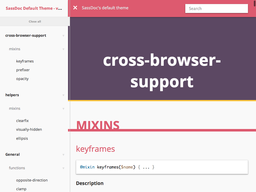
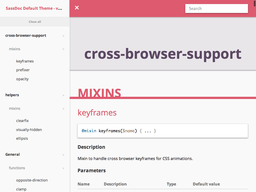
Update STD preview

diff --git a/theme-gallery/preview/default/index.html b/theme-gallery/preview/default/index.html
@@ -1,4 +1,5 @@
-<!doctype html><html lang="en"><head><meta charset="utf-8"><title>SassDoc Default Theme - v2.0.5</title><link rel="stylesheet" href="assets/css/main.css"><link href="http://fonts.googleapis.com/css?family=Open+Sans:400,500,700" rel="stylesheet" type="text/css"><meta name="viewport" content="width=device-width"><meta content="IE=edge, chrome=1" http-equiv="X-UA-Compatible"><!-- Thanks to Sass-lang.com for the icons --><link href="http://sass-lang.com/favicon.ico" rel="shortcut icon"></head><body><aside class="sidebar" role="nav"><div class="sidebar__header"><h1 class="sidebar__title"><a href="https://github.com/SassDoc/sassdoc-theme-default">SassDoc Default Theme - v2.0.5</a></h1></div><div class="sidebar__body"><button type="button" class="btn-toggle js-btn-toggle" data-alt="Open all">Close all</button><p class="sidebar__item sidebar__item--heading" data-slug="cross-browser-support"><a href="#cross-browser-support">cross-browser-support</a></p><div><p class="sidebar__item sidebar__item--sub-heading" data-slug="cross-browser-support-mixin"><a href="#cross-browser-support-mixin">mixins</a></p><ul class="list-unstyled"><li class="sidebar__item sassdoc__item" data-name="keyframes" data-type="mixin"><a href="#mixin-keyframes">keyframes</a></li><li class="sidebar__item sassdoc__item" data-name="prefixer" data-type="mixin"><a href="#mixin-prefixer">prefixer</a></li><li class="sidebar__item sassdoc__item" data-name="opacity" data-type="mixin"><a href="#mixin-opacity">opacity</a></li></ul></div><p class="sidebar__item sidebar__item--heading" data-slug="helpers"><a href="#helpers">helpers</a></p><div><p class="sidebar__item sidebar__item--sub-heading" data-slug="helpers-mixin"><a href="#helpers-mixin">mixins</a></p><ul class="list-unstyled"><li class="sidebar__item sassdoc__item" data-name="clearfix" data-type="mixin"><a href="#mixin-clearfix">clearfix</a></li><li class="sidebar__item sassdoc__item" data-name="visually-hidden" data-type="mixin"><a href="#mixin-visually-hidden">visually-hidden</a></li><li class="sidebar__item sassdoc__item" data-name="ellipsis" data-type="mixin"><a href="#mixin-ellipsis">ellipsis</a></li></ul></div><p class="sidebar__item sidebar__item--heading" data-slug="undefined"><a href="#undefined">General</a></p><div><p class="sidebar__item sidebar__item--sub-heading" data-slug="undefined-function"><a href="#undefined-function">functions</a></p><ul class="list-unstyled"><li class="sidebar__item sassdoc__item" data-name="opposite-direction" data-type="function"><a href="#function-opposite-direction">opposite-direction</a></li><li class="sidebar__item sassdoc__item" data-name="clamp" data-type="function"><a href="#function-clamp">clamp</a></li><li class="sidebar__item sassdoc__item" data-name="z" data-type="function"><a href="#function-z">z</a></li><li class="sidebar__item sassdoc__item" data-name="is-valid-length" data-type="function"><a href="#function-is-valid-length">is-valid-length</a></li><li class="sidebar__item sassdoc__item" data-name="top-shadow" data-type="function"><a href="#function-top-shadow">top-shadow</a></li><li class="sidebar__item sassdoc__item" data-name="bottom-shadow" data-type="function"><a href="#function-bottom-shadow">bottom-shadow</a></li></ul><p class="sidebar__item sidebar__item--sub-heading" data-slug="undefined-placeholder"><a href="#undefined-placeholder">placeholders</a></p><ul class="list-unstyled"><li class="sidebar__item sassdoc__item" data-name="clearfix" data-type="placeholder"><a href="#placeholder-clearfix">clearfix</a></li><li class="sidebar__item sassdoc__item" data-name="visually-hidden" data-type="placeholder"><a href="#placeholder-visually-hidden">visually-hidden</a></li><li class="sidebar__item sassdoc__item" data-name="ellipsis" data-type="placeholder"><a href="#placeholder-ellipsis">ellipsis</a></li></ul><p class="sidebar__item sidebar__item--sub-heading" data-slug="undefined-mixin"><a href="#undefined-mixin">mixins</a></p><ul class="list-unstyled"><li class="sidebar__item sassdoc__item" data-name="size" data-type="mixin"><a href="#mixin-size">size</a></li><li class="sidebar__item sassdoc__item" data-name="position" data-type="mixin"><a href="#mixin-position">position</a></li><li class="sidebar__item sassdoc__item" data-name="absolute" data-type="mixin"><a href="#mixin-absolute">absolute</a></li><li class="sidebar__item sassdoc__item" data-name="relative" data-type="mixin"><a href="#mixin-relative">relative</a></li><li class="sidebar__item sassdoc__item" data-name="fixed" data-type="mixin"><a href="#mixin-fixed">fixed</a></li><li class="sidebar__item sassdoc__item" data-name="respond-to" data-type="mixin"><a href="#mixin-respond-to">respond-to</a></li><li class="sidebar__item sassdoc__item" data-name="inline-block" data-type="mixin"><a href="#mixin-inline-block">inline-block</a></li><li class="sidebar__item sassdoc__item" data-name="card" data-type="mixin"><a href="#mixin-card">card</a></li><li class="sidebar__item sassdoc__item" data-name="on-event" data-type="mixin"><a href="#mixin-on-event">on-event</a></li><li class="sidebar__item sassdoc__item" data-name="when-inside" data-type="mixin"><a href="#mixin-when-inside">when-inside</a></li></ul><p class="sidebar__item sidebar__item--sub-heading" data-slug="undefined-variable"><a href="#undefined-variable">variables</a></p><ul class="list-unstyled"><li class="sidebar__item sassdoc__item" data-name="pink" data-type="variable"><a href="#variable-pink">pink</a></li><li class="sidebar__item sassdoc__item" data-name="purple" data-type="variable"><a href="#variable-purple">purple</a></li><li class="sidebar__item sassdoc__item" data-name="yellow" data-type="variable"><a href="#variable-yellow">yellow</a></li><li class="sidebar__item sassdoc__item" data-name="black" data-type="variable"><a href="#variable-black">black</a></li><li class="sidebar__item sassdoc__item" data-name="primary-color" data-type="variable"><a href="#variable-primary-color">primary-color</a></li><li class="sidebar__item sassdoc__item" data-name="secondary-color" data-type="variable"><a href="#variable-secondary-color">secondary-color</a></li><li class="sidebar__item sassdoc__item" data-name="tertiary-color" data-type="variable"><a href="#variable-tertiary-color">tertiary-color</a></li><li class="sidebar__item sassdoc__item" data-name="light-grey" data-type="variable"><a href="#variable-light-grey">light-grey</a></li><li class="sidebar__item sassdoc__item" data-name="medium-grey" data-type="variable"><a href="#variable-medium-grey">medium-grey</a></li><li class="sidebar__item sassdoc__item" data-name="breakpoints" data-type="variable"><a href="#variable-breakpoints">breakpoints</a></li><li class="sidebar__item sassdoc__item" data-name="z-indexes" data-type="variable"><a href="#variable-z-indexes">z-indexes</a></li><li class="sidebar__item sassdoc__item" data-name="sidebar-width" data-type="variable"><a href="#variable-sidebar-width">sidebar-width</a></li><li class="sidebar__item sassdoc__item" data-name="vertical-rhythm" data-type="variable"><a href="#variable-vertical-rhythm">vertical-rhythm</a></li><li class="sidebar__item sassdoc__item" data-name="text-font-stack" data-type="variable"><a href="#variable-text-font-stack">text-font-stack</a></li><li class="sidebar__item sassdoc__item" data-name="code-font-stack" data-type="variable"><a href="#variable-code-font-stack">code-font-stack</a></li></ul></div></div></aside><article class="main" role="main"><header class="header" role="banner"><div class="container"><div class="header__description"><p>SassDoc&#39;s default theme</p></div><div class="sassdoc__searchbar searchbar"><label for="js-search-input" class="visually-hidden">Search</label><div class="searchbar__form" id="js-search"><input name="search" type="search" class="searchbar__field" autocomplete="off" autofocus id="js-search-input" placeholder="Search"><ul class="searchbar__suggestions" id="js-search-suggestions"></ul></div></div></div></header><section class="main__section"><h1 class="main__heading" id="cross-browser-support"><div class="container">cross-browser-support</div></h1><section class="main__sub-section" id="cross-browser-support-mixin"><h2 class="main__heading--secondary"><div class="container">mixins</div></h2><section class="main__item container item" id="mixin-keyframes"><h3 class="item__heading"><a class="item__name" href="#mixin-keyframes">keyframes</a></h3><div class="item__code-wrapper"><pre class="item__code item__code--togglable language-scss" data-current-state="collapsed" data-expanded="@mixin keyframes($name) { 
+<!doctype html><html lang="en"><head><meta charset="utf-8"><title>SassDoc Default Theme - v2.3.1</title><link rel="stylesheet" href="assets/css/main.css"><link href="http://fonts.googleapis.com/css?family=Open+Sans:400,500,700" rel="stylesheet" type="text/css"><meta name="viewport" content="width=device-width"><meta content="IE=edge, chrome=1" http-equiv="X-UA-Compatible"><!-- Open Graph tags --><meta property="og:title" content="SassDoc Default Theme - SassDoc"><meta property="og:type" content="website"><meta property="og:description" content="<p>SassDoc&#39;s default theme</p>
+"><!-- Thanks to Sass-lang.com for the icons --><link href="assets/images/favicon.png" rel="shortcut icon"></head><body><aside class="sidebar" role="nav"><div class="sidebar__header"><h1 class="sidebar__title"><a href="https://github.com/SassDoc/sassdoc-theme-default">SassDoc Default Theme - v2.3.1</a></h1></div><div class="sidebar__body"><button type="button" class="btn-toggle js-btn-toggle" data-alt="Open all">Close all</button><p class="sidebar__item sidebar__item--heading" data-slug="cross-browser-support"><a href="#cross-browser-support">cross-browser-support</a></p><div><p class="sidebar__item sidebar__item--sub-heading" data-slug="cross-browser-support-mixin"><a href="#cross-browser-support-mixin">mixins</a></p><ul class="list-unstyled"><li class="sidebar__item sassdoc__item" data-name="keyframes" data-type="mixin"><a href="#mixin-keyframes">keyframes</a></li><li class="sidebar__item sassdoc__item" data-name="prefixer" data-type="mixin"><a href="#mixin-prefixer">prefixer</a></li><li class="sidebar__item sassdoc__item" data-name="opacity" data-type="mixin"><a href="#mixin-opacity">opacity</a></li></ul></div><p class="sidebar__item sidebar__item--heading" data-slug="helpers"><a href="#helpers">helpers</a></p><div><p class="sidebar__item sidebar__item--sub-heading" data-slug="helpers-mixin"><a href="#helpers-mixin">mixins</a></p><ul class="list-unstyled"><li class="sidebar__item sassdoc__item" data-name="clearfix" data-type="mixin"><a href="#mixin-clearfix">clearfix</a></li><li class="sidebar__item sassdoc__item" data-name="visually-hidden" data-type="mixin"><a href="#mixin-visually-hidden">visually-hidden</a></li><li class="sidebar__item sassdoc__item" data-name="ellipsis" data-type="mixin"><a href="#mixin-ellipsis">ellipsis</a></li></ul></div><p class="sidebar__item sidebar__item--heading" data-slug="undefined"><a href="#undefined">General</a></p><div><p class="sidebar__item sidebar__item--sub-heading" data-slug="undefined-function"><a href="#undefined-function">functions</a></p><ul class="list-unstyled"><li class="sidebar__item sassdoc__item" data-name="opposite-direction" data-type="function"><a href="#function-opposite-direction">opposite-direction</a></li><li class="sidebar__item sassdoc__item" data-name="clamp" data-type="function"><a href="#function-clamp">clamp</a></li><li class="sidebar__item sassdoc__item" data-name="z" data-type="function"><a href="#function-z">z</a></li><li class="sidebar__item sassdoc__item" data-name="is-valid-length" data-type="function"><a href="#function-is-valid-length">is-valid-length</a></li><li class="sidebar__item sassdoc__item" data-name="top-shadow" data-type="function"><a href="#function-top-shadow">top-shadow</a></li><li class="sidebar__item sassdoc__item" data-name="bottom-shadow" data-type="function"><a href="#function-bottom-shadow">bottom-shadow</a></li></ul><p class="sidebar__item sidebar__item--sub-heading" data-slug="undefined-placeholder"><a href="#undefined-placeholder">placeholders</a></p><ul class="list-unstyled"><li class="sidebar__item sassdoc__item" data-name="clearfix" data-type="placeholder"><a href="#placeholder-clearfix">clearfix</a></li><li class="sidebar__item sassdoc__item" data-name="visually-hidden" data-type="placeholder"><a href="#placeholder-visually-hidden">visually-hidden</a></li><li class="sidebar__item sassdoc__item" data-name="ellipsis" data-type="placeholder"><a href="#placeholder-ellipsis">ellipsis</a></li></ul><p class="sidebar__item sidebar__item--sub-heading" data-slug="undefined-mixin"><a href="#undefined-mixin">mixins</a></p><ul class="list-unstyled"><li class="sidebar__item sassdoc__item" data-name="size" data-type="mixin"><a href="#mixin-size">size</a></li><li class="sidebar__item sassdoc__item" data-name="position" data-type="mixin"><a href="#mixin-position">position</a></li><li class="sidebar__item sassdoc__item" data-name="absolute" data-type="mixin"><a href="#mixin-absolute">absolute</a></li><li class="sidebar__item sassdoc__item" data-name="relative" data-type="mixin"><a href="#mixin-relative">relative</a></li><li class="sidebar__item sassdoc__item" data-name="fixed" data-type="mixin"><a href="#mixin-fixed">fixed</a></li><li class="sidebar__item sassdoc__item" data-name="respond-to" data-type="mixin"><a href="#mixin-respond-to">respond-to</a></li><li class="sidebar__item sassdoc__item" data-name="inline-block" data-type="mixin"><a href="#mixin-inline-block">inline-block</a></li><li class="sidebar__item sassdoc__item" data-name="card" data-type="mixin"><a href="#mixin-card">card</a></li><li class="sidebar__item sassdoc__item" data-name="on-event" data-type="mixin"><a href="#mixin-on-event">on-event</a></li><li class="sidebar__item sassdoc__item" data-name="when-inside" data-type="mixin"><a href="#mixin-when-inside">when-inside</a></li></ul><p class="sidebar__item sidebar__item--sub-heading" data-slug="undefined-variable"><a href="#undefined-variable">variables</a></p><ul class="list-unstyled"><li class="sidebar__item sassdoc__item" data-name="pink" data-type="variable"><a href="#variable-pink">pink</a></li><li class="sidebar__item sassdoc__item" data-name="purple" data-type="variable"><a href="#variable-purple">purple</a></li><li class="sidebar__item sassdoc__item" data-name="yellow" data-type="variable"><a href="#variable-yellow">yellow</a></li><li class="sidebar__item sassdoc__item" data-name="black" data-type="variable"><a href="#variable-black">black</a></li><li class="sidebar__item sassdoc__item" data-name="primary-color" data-type="variable"><a href="#variable-primary-color">primary-color</a></li><li class="sidebar__item sassdoc__item" data-name="secondary-color" data-type="variable"><a href="#variable-secondary-color">secondary-color</a></li><li class="sidebar__item sassdoc__item" data-name="tertiary-color" data-type="variable"><a href="#variable-tertiary-color">tertiary-color</a></li><li class="sidebar__item sassdoc__item" data-name="light-grey" data-type="variable"><a href="#variable-light-grey">light-grey</a></li><li class="sidebar__item sassdoc__item" data-name="medium-grey" data-type="variable"><a href="#variable-medium-grey">medium-grey</a></li><li class="sidebar__item sassdoc__item" data-name="breakpoints" data-type="variable"><a href="#variable-breakpoints">breakpoints</a></li><li class="sidebar__item sassdoc__item" data-name="z-indexes" data-type="variable"><a href="#variable-z-indexes">z-indexes</a></li><li class="sidebar__item sassdoc__item" data-name="sidebar-width" data-type="variable"><a href="#variable-sidebar-width">sidebar-width</a></li><li class="sidebar__item sassdoc__item" data-name="vertical-rhythm" data-type="variable"><a href="#variable-vertical-rhythm">vertical-rhythm</a></li><li class="sidebar__item sassdoc__item" data-name="text-font-stack" data-type="variable"><a href="#variable-text-font-stack">text-font-stack</a></li><li class="sidebar__item sassdoc__item" data-name="code-font-stack" data-type="variable"><a href="#variable-code-font-stack">code-font-stack</a></li></ul></div></div></aside><article class="main" role="main"><header class="header" role="banner"><div class="container"><div class="sassdoc__searchbar searchbar"><label for="js-search-input" class="visually-hidden">Search</label><div class="searchbar__form" id="js-search"><input name="search" type="search" class="searchbar__field" autocomplete="off" autofocus id="js-search-input" placeholder="Search"><ul class="searchbar__suggestions" id="js-search-suggestions"></ul></div></div></div></header><section class="main__section"><h1 class="main__heading" id="cross-browser-support"><div class="container">cross-browser-support</div></h1><section class="main__sub-section" id="cross-browser-support-mixin"><h2 class="main__heading--secondary"><div class="container">mixins</div></h2><section class="main__item container item" id="mixin-keyframes"><h3 class="item__heading"><a class="item__name" href="#mixin-keyframes">keyframes</a></h3><div class="item__code-wrapper"><pre class="item__code item__code--togglable language-scss" data-current-state="collapsed" data-expanded="@mixin keyframes($name) { 
   @-webkit-keyframes #{$name} {
     @content;
   }
@@ -172,4 +173,4 @@
   &#39;social&#39;:     3000,
   &#39;default&#39;:       1,
   &#39;below&#39;:        -1
-) !global;</code></pre></div><h3 class="item__sub-heading">Description</h3><div class="item__description"><p>Z-indexes layers.</p></div><h3 class="item__sub-heading">Type</h3><p><code>Map</code></p><h3 class="item__sub-heading">Map structure</h3><table class="item__parameters"><thead><tr><th scope="col"><span class="visually-hidden">Map key</span>Name</th><th scope="col"><span class="visually-hidden">Map key</span>Description</th><th scope="col"><span class="visually-hidden">Map key</span>Type</th><th scope="col"><span class="visually-hidden">Map key</span>Value</th></tr></thead><tbody><tr class="item__parameter"><th scope="row" data-label="name"><code>key</code></th><td data-label="desc"><p>aliases for specific z-indexes</p></td><td data-label="type"><code>Number</code></td><td data-label="default">&mdash;<span class="visually-hidden">none</span></td></tr></tbody></table><h3 class="item__sub-heading">Used by</h3><ul class="list-unstyled"><li><span class="item__cross-type">[function]</span> <a href="#function-z"><code>z</code></a></li></ul><h3 class="item__sub-heading">See</h3><ul class="list-unstyled"><li><span class="item__cross-type">[function]</span> <a href="#function-z"><code>z</code></a></li></ul></section><section class="main__item container item" id="variable-sidebar-width"><h3 class="item__heading"><a class="item__name" href="#variable-sidebar-width">sidebar-width</a></h3><div class="item__code-wrapper"><pre class="item__code language-scss"><code>$sidebar-width: 280px;</code></pre></div><h3 class="item__sub-heading">Description</h3><div class="item__description"><p>Sidebar width</p></div><h3 class="item__sub-heading">Type</h3><p><code>Number</code></p></section><section class="main__item container item" id="variable-vertical-rhythm"><h3 class="item__heading"><a class="item__name" href="#variable-vertical-rhythm">vertical-rhythm</a></h3><div class="item__code-wrapper"><pre class="item__code language-scss"><code>$vertical-rhythm: 1.5rem;</code></pre></div><h3 class="item__sub-heading">Description</h3><div class="item__description"><p>Vertical rhythm</p></div><h3 class="item__sub-heading">Type</h3><p><code>Number</code></p></section><section class="main__item container item" id="variable-text-font-stack"><h3 class="item__heading"><a class="item__name" href="#variable-text-font-stack">text-font-stack</a></h3><div class="item__code-wrapper"><pre class="item__code language-scss"><code>$text-font-stack: &#39;Open Sans&#39;, &#39;Helvetica Neue Light&#39;, &#39;Helvetica Neue&#39;, &#39;Helvetica&#39;, &#39;Arial&#39;, sans-serif;</code></pre></div><h3 class="item__sub-heading">Description</h3><div class="item__description"><p>Text font stack</p></div><h3 class="item__sub-heading">Type</h3><p><code>List</code></p></section><section class="main__item container item" id="variable-code-font-stack"><h3 class="item__heading"><a class="item__name" href="#variable-code-font-stack">code-font-stack</a></h3><div class="item__code-wrapper"><pre class="item__code language-scss"><code>$code-font-stack: &#39;Courier New&#39;, &#39;DejaVu Sans Mono&#39;, &#39;Bitstream Vera Sans Mono&#39;, &#39;Monaco&#39;, monospace;</code></pre></div><h3 class="item__sub-heading">Description</h3><div class="item__description"><p>Code font stack</p></div><h3 class="item__sub-heading">Type</h3><p><code>List</code></p></section></section></section><footer class="footer" role="contentinfo"><div class="container"><div class="footer__project-info project-info"><!-- Name and URL --><a class="project-info__name" href="https://github.com/SassDoc/sassdoc-theme-default">SassDoc Default Theme</a><!-- Version --> <span class="project-info__version">- v2.0.5</span><!-- License --></div><a class="footer__watermark" href="http://sassdoc.com"><img src="assets/images/logo_light_inline.svg" alt="SassDoc Logo"></a></div></footer></article><script src="http://ajax.googleapis.com/ajax/libs/jquery/2.1.1/jquery.min.js"></script><script>window.jQuery || document.write('<script src="assets/js/vendor/jquery.min.js"><\/script>')</script><script src="assets/js/main.min.js"></script></body></html>
+) !global;</code></pre></div><h3 class="item__sub-heading">Description</h3><div class="item__description"><p>Z-indexes layers.</p></div><h3 class="item__sub-heading">Type</h3><p><code>Map</code></p><h3 class="item__sub-heading">Map structure</h3><table class="item__parameters"><thead><tr><th scope="col"><span class="visually-hidden">Map key</span>Name</th><th scope="col"><span class="visually-hidden">Map key</span>Description</th><th scope="col"><span class="visually-hidden">Map key</span>Type</th><th scope="col"><span class="visually-hidden">Map key</span>Value</th></tr></thead><tbody><tr class="item__parameter"><th scope="row" data-label="name"><code>key</code></th><td data-label="desc"><p>aliases for specific z-indexes</p></td><td data-label="type"><code>Number</code></td><td data-label="default">&mdash;<span class="visually-hidden">none</span></td></tr></tbody></table><h3 class="item__sub-heading">Used by</h3><ul class="list-unstyled"><li><span class="item__cross-type">[function]</span> <a href="#function-z"><code>z</code></a></li></ul><h3 class="item__sub-heading">See</h3><ul class="list-unstyled"><li><span class="item__cross-type">[function]</span> <a href="#function-z"><code>z</code></a></li></ul></section><section class="main__item container item" id="variable-sidebar-width"><h3 class="item__heading"><a class="item__name" href="#variable-sidebar-width">sidebar-width</a></h3><div class="item__code-wrapper"><pre class="item__code language-scss"><code>$sidebar-width: 280px;</code></pre></div><h3 class="item__sub-heading">Description</h3><div class="item__description"><p>Sidebar width</p></div><h3 class="item__sub-heading">Type</h3><p><code>Number</code></p></section><section class="main__item container item" id="variable-vertical-rhythm"><h3 class="item__heading"><a class="item__name" href="#variable-vertical-rhythm">vertical-rhythm</a></h3><div class="item__code-wrapper"><pre class="item__code language-scss"><code>$vertical-rhythm: 1.5rem;</code></pre></div><h3 class="item__sub-heading">Description</h3><div class="item__description"><p>Vertical rhythm</p></div><h3 class="item__sub-heading">Type</h3><p><code>Number</code></p></section><section class="main__item container item" id="variable-text-font-stack"><h3 class="item__heading"><a class="item__name" href="#variable-text-font-stack">text-font-stack</a></h3><div class="item__code-wrapper"><pre class="item__code language-scss"><code>$text-font-stack: &#39;Open Sans&#39;, &#39;Helvetica Neue Light&#39;, &#39;Helvetica Neue&#39;, &#39;Helvetica&#39;, &#39;Arial&#39;, sans-serif;</code></pre></div><h3 class="item__sub-heading">Description</h3><div class="item__description"><p>Text font stack</p></div><h3 class="item__sub-heading">Type</h3><p><code>List</code></p></section><section class="main__item container item" id="variable-code-font-stack"><h3 class="item__heading"><a class="item__name" href="#variable-code-font-stack">code-font-stack</a></h3><div class="item__code-wrapper"><pre class="item__code language-scss"><code>$code-font-stack: &#39;Courier New&#39;, &#39;DejaVu Sans Mono&#39;, &#39;Bitstream Vera Sans Mono&#39;, &#39;Monaco&#39;, monospace;</code></pre></div><h3 class="item__sub-heading">Description</h3><div class="item__description"><p>Code font stack</p></div><h3 class="item__sub-heading">Type</h3><p><code>List</code></p></section></section></section><footer class="footer" role="contentinfo"><div class="container"><div class="footer__project-info project-info"><!-- Name and URL --><a class="project-info__name" href="https://github.com/SassDoc/sassdoc-theme-default">SassDoc Default Theme</a><!-- Version --> <span class="project-info__version">- v2.3.1</span><!-- License --></div><a class="footer__watermark" href="http://sassdoc.com"><img src="assets/images/logo_light_inline.svg" alt="SassDoc Logo"></a></div></footer></article><script src="http://ajax.googleapis.com/ajax/libs/jquery/2.1.1/jquery.min.js"></script><script>window.jQuery || document.write('<script src="assets/js/vendor/jquery.min.js"><\/script>')</script><script src="assets/js/main.min.js"></script></body></html>

diff --git a/theme-gallery/preview/default/assets/css/main.css b/theme-gallery/preview/default/assets/css/main.css
@@ -1,2 +1,2 @@
-.container:after,.header:after,.searchbar:after{content:"";display:table;clear:both}.visually-hidden{width:1px;height:1px;position:absolute;padding:0;margin:-1px;overflow:hidden;clip:rect(0 0 0 0);border:0}.sidebar__title{text-overflow:ellipsis;overflow:hidden;white-space:nowrap}code[class*='language-'],pre[class*='language-']{color:black;text-shadow:0 1px white;font-family:Consolas, Monaco, 'Andale Mono', monospace;direction:ltr;text-align:left;white-space:pre;word-spacing:normal;word-break:normal;-moz-tab-size:4;-o-tab-size:4;tab-size:4;-webkit-hyphens:none;-moz-hyphens:none;-ms-hyphens:none;hyphens:none}pre[class*='language-']::-moz-selection,pre[class*='language-'] ::-moz-selection,code[class*='language-']::-moz-selection,code[class*='language-'] ::-moz-selection{text-shadow:none;background:#b3d4fc}pre[class*='language-']::selection,pre[class*='language-'] ::selection,code[class*='language-']::selection,code[class*='language-'] ::selection{text-shadow:none;background:#b3d4fc}@media print{code[class*='language-'],pre[class*='language-']{text-shadow:none}}pre[class*='language-']{padding:1em;margin:.5em 0;overflow:auto}:not(pre)>code[class*='language-'],pre[class*='language-']{background:white}:not(pre)>code[class*='language-']{padding:.1em;border-radius:.3em}.token.comment,.token.prolog,.token.doctype,.token.cdata{color:slategray}.token.punctuation{color:#999}.namespace{opacity:.7}.token.property,.token.tag,.token.boolean,.token.number,.token.constant,.token.symbol{color:#905}.token.selector,.token.attr-name,.token.string,.token.builtin{color:#690}.token.operator,.token.entity,.token.url,.language-css .token.string,.style .token.string,.token.variable{color:#a67f59;background:rgba(255,255,255,0.5)}.token.atrule,.token.attr-value,.token.keyword{color:#07a}.token.regex,.token.important{color:#e90}.token.important{font-weight:bold}.token.entity{cursor:help}html{-webkit-box-sizing:border-box;-moz-box-sizing:border-box;box-sizing:border-box}*,*::after,*::before{-webkit-box-sizing:inherit;-moz-box-sizing:inherit;box-sizing:inherit}body{font:1em/1.35 "Open Sans","Helvetica Neue Light","Helvetica Neue","Helvetica","Arial",sans-serif;overflow:auto;margin:0}a{transition:0.15s;text-decoration:none;color:#dd5a6f}a:hover,a:hover code{color:#333}table p{margin:0 0 0.5rem}:not(pre)>code{color:#dd5a6f;white-space:nowrap;font-weight:normal}@media (max-width: 800px){table,tbody,tr,td,th{display:block}thead{width:1px;height:1px;position:absolute;padding:0;margin:-1px;overflow:hidden;clip:rect(0 0 0 0);border:0}tr{padding-bottom:1em;margin-bottom:1em;border-bottom:2px solid #ddd}td::before,th::before{content:attr(data-label) ": ";text-transform:capitalize;font-weight:bold}td p,th p{display:inline}}.layout-toggle{display:none}@media (min-width: 801px){.layout-toggle{position:absolute;top:8px;left:20px;font-size:2em;cursor:pointer;color:white;display:block}}@media (min-width: 801px){.sidebar-closed .sidebar{-webkit-transform:translateX(-280px);-ms-transform:translateX(-280px);transform:translateX(-280px)}.sidebar-closed .main{padding-left:0}}.list-unstyled{padding-left:0;list-style:none;line-height:1.5;margin-top:0;margin-bottom:1.5rem}.list-inline li{display:inline-block}.container{max-width:100%;width:1170px;margin:0 auto;padding:0 2rem}.relative{position:relative}.clear{clear:both}.header{box-shadow:0 2px 5px rgba(0,0,0,0.26);padding:1em 0;background:#dd5a6f;color:#e0e0e0;position:relative}.header__title{font-weight:500;text-align:center;margin:0 0 0.5em 0}.header__title a{color:#e0e0e0}@media (min-width: 801px){.header__title{float:left;font-size:1em;margin-top:.25em;margin-bottom:0}}.header__description{padding-bottom:1em}@media (min-width: 801px){.header__description{float:left;width:calc(100% - 16em);padding-top:0.3em;padding-bottom:0;padding-left:1.5em}}.header__description a{color:white;text-decoration:underline}.header__description *{margin:0}.searchbar{display:inline-block;float:right}@media (max-width: 800px){.searchbar{display:block;float:none}}.searchbar__form{float:right;position:relative}@media (max-width: 800px){.searchbar__form{float:none}}@media (min-width: 801px){.searchbar__form{min-width:15em}}.searchbar__field{border:none;padding:0.5em;font-size:1em;margin:0;width:100%;box-shadow:0 1.5px 4px rgba(0,0,0,0.24),0 1.5px 6px rgba(0,0,0,0.12);border:1px solid #e0e0e0}.searchbar__suggestions{position:absolute;top:100%;right:0;left:0;box-shadow:0 1.5px 4px rgba(0,0,0,0.24),0 1.5px 6px rgba(0,0,0,0.12);border:1px solid #e0e0e0;background:white;padding:0;margin:0;list-style:none;z-index:2}.searchbar__suggestions:empty{display:none}.searchbar__suggestions .selected{background:#ddd}.searchbar__suggestions li{border-bottom:1px solid #e0e0e0}.searchbar__suggestions li:last-of-type{border:none}.searchbar__suggestions a{display:block;padding:0.5em;font-size:0.9em}.searchbar__suggestions a:hover,.searchbar__suggestions a:active,.searchbar__suggestions a:focus{background:#e0e0e0}.searchbar__suggestions code{margin-right:.5em}@media (min-width: 801px){.sidebar{position:fixed;top:0;bottom:0;left:0;overflow:auto;box-shadow:1px 0 1.5px rgba(0,0,0,0.12);width:280px;z-index:2;border-right:1px solid #e0e0e0;transition:0.2s cubic-bezier(0.215, 0.61, 0.355, 1)}}.sidebar__annotation{color:#5c4863}.sidebar__item{font-size:0.9em}.sidebar__item a{padding:0.5em 4.5em;display:block;text-decoration:none;color:#333}.sidebar__item:hover,.sidebar__item:active,.sidebar__item:focus{background:#e0e0e0}.sidebar__item.is-collapsed+*{display:none}.sidebar__item--heading{padding:1em 1.5em}.sidebar__item--heading a{font-weight:bold}.sidebar__item--sub-heading{padding:0.5em 2.5em}.sidebar__item--sub-heading a{color:#888}.sidebar__item--heading,.sidebar__item--sub-heading{position:relative}.sidebar__item--heading:after,.sidebar__item--sub-heading:after{position:absolute;top:50%;right:2em;content:'\25BC';margin-top:-0.5em;color:#ddd;font-size:0.7em}.sidebar__item--heading.is-collapsed:after,.sidebar__item--sub-heading.is-collapsed:after{content:'\25B6'}.sidebar__item--heading a,.sidebar__item--sub-heading a{padding:0;display:inline}.sidebar__description{color:#e0e0e0;padding-right:2em}.sidebar__header{border-bottom:1px solid #e0e0e0}.sidebar__title{font-size:1em;margin:0;padding:1.45em}.btn-toggle{background:#EFEFEF;border:none;border-bottom:1px solid #e0e0e0;display:block;padding:1em;width:100%;cursor:pointer;color:#999;font-weight:bold;margin:0;transition:0.15s ease-out}.btn-toggle:hover,.btn-toggle:active,.btn-toggle:focus{background:#DFDFDF}.main{background:#f9f9f9;position:relative}@media (min-width: 801px){.main{transition:0.2s cubic-bezier(0.215, 0.61, 0.355, 1);padding-left:280px;min-height:45em}}.main__heading,.main__heading--secondary{padding:1em 0;margin-top:0}@media (min-width: 801px){.main__heading,.main__heading--secondary{padding:2em 0 0}}.main__heading{color:white;font-size:4em;text-align:center;border-bottom:5px solid #ffc93c;padding-bottom:.5em;margin-bottom:1em;background:#5c4863}.main__heading--secondary{font-size:3em;color:#dd5a6f;text-transform:uppercase;font-weight:bold;padding-top:0;position:relative}.main__heading--secondary .container{overflow:hidden;white-space:nowrap;text-overflow:ellipsis}.main__heading--secondary::before{content:'';position:absolute;left:0;right:0;bottom:0.15em;height:0.2em;background-color:#dd5a6f}.footer{background:#e0e0e0;padding:1em 0}.footer .container{position:relative}.footer__project-info{float:left}.footer__watermark{position:absolute;right:0;top:-0.7em}.footer__watermark img{display:block;max-width:7em}.project-info__name,.project-info__version,.project-info__license{display:inline-block}.project-info__version,.project-info__license{color:#555}.project-info__license{text-indent:-0.25em}.item{margin-bottom:4em}.item__heading{color:#333;margin:0 0 1.5rem 0;position:relative;font-size:2em;font-weight:300;float:left}.item__name{color:#dd5a6f}.item__example{margin-bottom:1.5rem}.item__example,.item__code{box-shadow:0 1.5px 4px rgba(0,0,0,0.24),0 1.5px 6px rgba(0,0,0,0.12);border:1px solid #e0e0e0;word-wrap:break-word;line-height:1.42}.item__code{padding-right:7em;clear:both;cursor:pointer}.item__code--togglable::after{position:absolute;right:0;bottom:-2.5em;-ms-filter:"progid:DXImageTransform.Microsoft.Alpha(Opacity=0)";opacity:0;color:#c4c4c4;font-size:0.8em;transition:0.2s ease-out}.item__code--togglable:hover::after,.item__code--togglable:active::after,.item__code--togglable:focus::after{-ms-filter:"progid:DXImageTransform.Microsoft.Alpha(Opacity=100)";opacity:1}.item__code--togglable[data-current-state='expanded']::after{content:'Click to collapse.'}.item__code--togglable[data-current-state='collapsed']::after{content:'Click to expand.'}.example__description{padding:1em;background:#EFEFEF}.example__description p{margin:0}.example__code[class*='language-']{margin:0}.item__anchor{font-size:0.6em;color:#eeafb9}@media (min-width: 801px){.item__anchor{position:absolute;right:101%;bottom:0.25em;-ms-filter:"progid:DXImageTransform.Microsoft.Alpha(Opacity=0)";opacity:0}.item:hover .item__anchor{-ms-filter:"progid:DXImageTransform.Microsoft.Alpha(Opacity=100)";opacity:1}}.item__deprecated{display:inline-block;overflow:hidden;margin-top:1em;margin-left:1em}.item__deprecated strong{float:left;color:#c00;text-transform:uppercase}.item__deprecated p{float:left;margin:0;padding-left:0.5em}.item__type{color:#ddd;text-transform:capitalize;font-size:0.75em}.item__alias,.item__aliased{color:#ddd;font-size:0.8em}.item__sub-heading{color:#333;margin-top:0;margin-bottom:1.5rem;font-size:1.2em}.item__parameters{width:100%;margin-bottom:1em;border-collapse:collapse}.item__parameters thead th{vertical-align:bottom;border-bottom:2px solid #ddd;border-top:none;text-align:left;color:#707070}.item__parameters tbody th{text-align:left}.item__parameters td,.item__parameters th{padding:0.5em 0.5em 0.5em 0;vertical-align:top}@media (min-width: 801px){tbody>.item__parameter:first-of-type>td{border-top:none}.item__parameters td,.item__parameters th{border-top:1px solid #ddd}}.item__access{text-transform:capitalize;color:#5c4863;font-size:0.8em}.item__since{float:right;padding-top:0.9em;color:#c4c4c4;margin-bottom:1em}.item__source-link{position:absolute;top:1px;right:1px;background:white;padding:1em;z-index:2;color:#c4c4c4}.item__cross-type{color:#4d4d4d;font-family:'Consolas', 'Monaco', 'Andale Mono', monospace;font-size:0.8em}.item__description{margin-bottom:1.5rem}li.item__description{margin-bottom:0}.item__description--inline>*{display:inline-block;margin:0}.item__code-wrapper{position:relative;clear:both;margin-bottom:1.5rem}.color-preview--inline{padding:2px 4px;border:1px solid rgba(0,0,0,0.1);border-radius:3px}.color-preview--block{width:2em;height:2em;position:absolute;top:0.75em;right:0.75em;border:1px solid rgba(0,0,0,0.1);border-radius:3px}
+.container:after,.header:after,.searchbar:after{content:"";display:table;clear:both}.visually-hidden{width:1px;height:1px;position:absolute;padding:0;margin:-1px;overflow:hidden;clip:rect(0 0 0 0);border:0}.sidebar__title{text-overflow:ellipsis;overflow:hidden;white-space:nowrap}code[class*='language-'],pre[class*='language-']{color:black;text-shadow:0 1px white;font-family:Consolas, Monaco, 'Andale Mono', monospace;direction:ltr;text-align:left;white-space:pre;word-spacing:normal;word-break:normal;-moz-tab-size:4;-o-tab-size:4;tab-size:4;-webkit-hyphens:none;-moz-hyphens:none;-ms-hyphens:none;hyphens:none}pre[class*='language-']::-moz-selection,pre[class*='language-'] ::-moz-selection,code[class*='language-']::-moz-selection,code[class*='language-'] ::-moz-selection{text-shadow:none;background:#b3d4fc}pre[class*='language-']::selection,pre[class*='language-'] ::selection,code[class*='language-']::selection,code[class*='language-'] ::selection{text-shadow:none;background:#b3d4fc}@media print{code[class*='language-'],pre[class*='language-']{text-shadow:none}}pre[class*='language-']{padding:1em;margin:.5em 0;overflow:auto}:not(pre)>code[class*='language-'],pre[class*='language-']{background:white}:not(pre)>code[class*='language-']{padding:.1em;border-radius:.3em}.token.comment,.token.prolog,.token.doctype,.token.cdata{color:slategray}.token.punctuation{color:#999}.namespace{opacity:.7}.token.property,.token.tag,.token.boolean,.token.number,.token.constant,.token.symbol{color:#905}.token.selector,.token.attr-name,.token.string,.token.builtin{color:#690}.token.operator,.token.entity,.token.url,.language-css .token.string,.style .token.string,.token.variable{color:#a67f59;background:rgba(255,255,255,0.5)}.token.atrule,.token.attr-value,.token.keyword{color:#07a}.token.regex,.token.important{color:#e90}.token.important{font-weight:bold}.token.entity{cursor:help}html{-webkit-box-sizing:border-box;-moz-box-sizing:border-box;box-sizing:border-box}*,*::after,*::before{-webkit-box-sizing:inherit;-moz-box-sizing:inherit;box-sizing:inherit}body{font:1em/1.35 "Open Sans","Helvetica Neue Light","Helvetica Neue","Helvetica","Arial",sans-serif;overflow:auto;margin:0}a{transition:0.15s;text-decoration:none;color:#dd5a6f}a:hover,a:hover code{color:#333}table p{margin:0 0 0.5rem}:not(pre)>code{color:#dd5a6f;white-space:nowrap;font-weight:normal}@media (max-width: 800px){table,tbody,tr,td,th{display:block}thead{width:1px;height:1px;position:absolute;padding:0;margin:-1px;overflow:hidden;clip:rect(0 0 0 0);border:0}tr{padding-bottom:1em;margin-bottom:1em;border-bottom:2px solid #ddd}td::before,th::before{content:attr(data-label) ": ";text-transform:capitalize;font-weight:bold}td p,th p{display:inline}}.layout-toggle{display:none}@media (min-width: 801px){.layout-toggle{position:absolute;top:8px;left:20px;font-size:2em;cursor:pointer;color:white;display:block}}@media (min-width: 801px){.sidebar-closed .sidebar{-webkit-transform:translateX(-280px);-ms-transform:translateX(-280px);transform:translateX(-280px)}.sidebar-closed .main{padding-left:0}.sidebar-closed .header{left:0}}.list-unstyled{padding-left:0;list-style:none;line-height:1.5;margin-top:0;margin-bottom:1.5rem}.list-inline li{display:inline-block}.container{max-width:100%;width:1170px;margin:0 auto;padding:0 2rem}.relative{position:relative}.clear{clear:both}.header{position:fixed;top:0;right:0;left:280px;box-shadow:0 2px 5px rgba(0,0,0,0.26);padding:1em 0;background:#dd5a6f;color:#e0e0e0;z-index:4000}@media (max-width: 800px){.header{left:0}}@media (min-width: 801px){.header{transition:0.2s cubic-bezier(0.215, 0.61, 0.355, 1)}}.header__title{font-weight:500;text-align:center;margin:0 0 0.5em 0}.header__title a{color:#e0e0e0}@media (min-width: 801px){.header__title{float:left;font-size:1em;margin-top:.25em;margin-bottom:0}}.searchbar{display:inline-block;float:right}@media (max-width: 800px){.searchbar{display:block;float:none}}.searchbar__form{float:right;position:relative}@media (max-width: 800px){.searchbar__form{float:none}}@media (min-width: 801px){.searchbar__form{min-width:15em}}.searchbar__field{border:none;padding:0.5em;font-size:1em;margin:0;width:100%;box-shadow:0 1.5px 4px rgba(0,0,0,0.24),0 1.5px 6px rgba(0,0,0,0.12);border:1px solid #e0e0e0}.searchbar__suggestions{position:absolute;top:100%;right:0;left:0;box-shadow:0 1.5px 4px rgba(0,0,0,0.24),0 1.5px 6px rgba(0,0,0,0.12);border:1px solid #e0e0e0;background:white;padding:0;margin:0;list-style:none;z-index:2}.searchbar__suggestions:empty{display:none}.searchbar__suggestions .selected{background:#ddd}.searchbar__suggestions li{border-bottom:1px solid #e0e0e0}.searchbar__suggestions li:last-of-type{border:none}.searchbar__suggestions a{display:block;padding:0.5em;font-size:0.9em}.searchbar__suggestions a:hover,.searchbar__suggestions a:active,.searchbar__suggestions a:focus{background:#e0e0e0}.searchbar__suggestions code{margin-right:.5em}@media (min-width: 801px){.sidebar{position:fixed;top:0;bottom:0;left:0;overflow:auto;box-shadow:1px 0 1.5px rgba(0,0,0,0.12);width:280px;z-index:2;border-right:1px solid #e0e0e0;transition:0.2s cubic-bezier(0.215, 0.61, 0.355, 1)}}@media (max-width: 800px){.sidebar{margin-top:4em}}.sidebar__annotation{color:#5c4863}.sidebar__item{font-size:0.9em}.sidebar__item a{padding:0.5em 4.5em;display:block;text-decoration:none;color:#333}.sidebar__item:hover,.sidebar__item:active,.sidebar__item:focus{background:#e0e0e0}.sidebar__item.is-collapsed+*{display:none}.sidebar__item--heading{padding:1em 1.5em}.sidebar__item--heading a{font-weight:bold}.sidebar__item--sub-heading{padding:0.5em 2.5em}.sidebar__item--sub-heading a{color:#888}.sidebar__item--heading,.sidebar__item--sub-heading{position:relative}.sidebar__item--heading:after,.sidebar__item--sub-heading:after{position:absolute;top:50%;right:2em;content:'\25BC';margin-top:-0.5em;color:#ddd;font-size:0.7em}.sidebar__item--heading.is-collapsed:after,.sidebar__item--sub-heading.is-collapsed:after{content:'\25B6'}.sidebar__item--heading a,.sidebar__item--sub-heading a{padding:0;display:inline}.sidebar__description{color:#e0e0e0;padding-right:2em}.sidebar__header{border-bottom:1px solid #e0e0e0}.sidebar__title{font-size:1em;margin:0;padding:1.45em}.btn-toggle{background:#EFEFEF;border:none;border-bottom:1px solid #e0e0e0;display:block;padding:1em;width:100%;cursor:pointer;color:#999;font-weight:bold;margin:0;transition:0.15s ease-out}.btn-toggle:hover,.btn-toggle:active,.btn-toggle:focus{background:#DFDFDF}.main{background:#f9f9f9;position:relative}@media (min-width: 801px){.main{transition:0.2s cubic-bezier(0.215, 0.61, 0.355, 1);padding-left:280px;padding-top:4em;min-height:45em}}.main__section{margin-top:5em;border-top:5px solid rgba(92,72,99,0.2)}.header+.main__section{margin-top:0;border-top:none}.main__heading,.main__heading--secondary{padding:1em 0;margin-top:0}@media (min-width: 801px){.main__heading,.main__heading--secondary{padding:2em 0 0}}.main__heading{color:#5c4863;font-size:3.5em;text-align:center;border-bottom:5px solid rgba(92,72,99,0.2);padding-bottom:.5em;margin-bottom:1em;background:rgba(92,72,99,0.1)}.main__heading--secondary{font-size:3em;color:#dd5a6f;text-transform:uppercase;font-weight:bold;padding-top:0;margin-bottom:-3rem;position:relative}.main__heading--secondary .container{overflow:hidden;white-space:nowrap;text-overflow:ellipsis}.main__heading--secondary::before{content:'';position:absolute;left:0;right:0;bottom:0.15em;height:0.2em;background-color:#dd5a6f}.footer{background:#e0e0e0;padding:1em 0}.footer .container{position:relative}.footer__project-info{float:left}.footer__watermark{position:absolute;right:0;top:-0.7em}.footer__watermark img{display:block;max-width:7em}.project-info__name,.project-info__version,.project-info__license{display:inline-block}.project-info__version,.project-info__license{color:#555}.project-info__license{text-indent:-0.25em}.main__section{margin-bottom:4.5rem}.item__heading{color:#333;margin:4.5rem 0 1.5rem 0;position:relative;font-size:2em;font-weight:300;float:left}.item__name{color:#dd5a6f}.item__example{margin-bottom:1.5rem}.item__example,.item__code{box-shadow:0 1.5px 4px rgba(0,0,0,0.24),0 1.5px 6px rgba(0,0,0,0.12);border:1px solid #e0e0e0;word-wrap:break-word;line-height:1.42}.item__code{padding-right:7em;clear:both;cursor:pointer}.item__code--togglable::after{position:absolute;right:0;bottom:-2.5em;-ms-filter:"progid:DXImageTransform.Microsoft.Alpha(Opacity=0)";opacity:0;color:#c4c4c4;font-size:0.8em;transition:0.2s ease-out}.item__code--togglable:hover::after,.item__code--togglable:active::after,.item__code--togglable:focus::after{-ms-filter:"progid:DXImageTransform.Microsoft.Alpha(Opacity=100)";opacity:1}.item__code--togglable[data-current-state='expanded']::after{content:'Click to collapse.'}.item__code--togglable[data-current-state='collapsed']::after{content:'Click to expand.'}.example__description{padding:1em;background:#EFEFEF}.example__description p{margin:0}.example__code[class*='language-']{margin:0}.item__anchor{font-size:0.6em;color:#eeafb9}@media (min-width: 801px){.item__anchor{position:absolute;right:101%;bottom:0.25em;-ms-filter:"progid:DXImageTransform.Microsoft.Alpha(Opacity=0)";opacity:0}.item:hover .item__anchor{-ms-filter:"progid:DXImageTransform.Microsoft.Alpha(Opacity=100)";opacity:1}}.item__deprecated{display:inline-block;overflow:hidden;margin-top:1em;margin-left:1em}.item__deprecated strong{float:left;color:#c00;text-transform:uppercase}.item__deprecated p{float:left;margin:0;padding-left:0.5em}.item__type{color:#ddd;text-transform:capitalize;font-size:0.75em}.item__alias,.item__aliased{color:#ddd;font-size:0.8em}.item__sub-heading{color:#333;margin-top:0;margin-bottom:1.5rem;font-size:1.2em}.item__parameters{width:100%;margin-bottom:1em;border-collapse:collapse}.item__parameters thead th{vertical-align:bottom;border-bottom:2px solid #ddd;border-top:none;text-align:left;color:#707070}.item__parameters tbody th{text-align:left}.item__parameters td,.item__parameters th{padding:0.5em 0.5em 0.5em 0;vertical-align:top}@media (min-width: 801px){tbody>.item__parameter:first-of-type>td{border-top:none}.item__parameters td,.item__parameters th{border-top:1px solid #ddd}}.item__access{text-transform:capitalize;color:#5c4863;font-size:0.8em}.item__since{float:right;padding-top:0.9em;color:#c4c4c4;margin-bottom:1em}.item__source-link{position:absolute;top:1px;right:1px;background:white;padding:1em;z-index:2;color:#c4c4c4}.item__cross-type{color:#4d4d4d;font-family:'Consolas', 'Monaco', 'Andale Mono', monospace;font-size:0.8em}.item__description{margin-bottom:1.5rem}li.item__description{margin-bottom:0}.item__description--inline>*{display:inline-block;margin:0}.item__code-wrapper{position:relative;clear:both;margin-bottom:1.5rem}.color-preview--inline{padding:2px 4px;border:1px solid rgba(0,0,0,0.1);border-radius:3px}.color-preview--block{width:2em;height:2em;position:absolute;top:0.75em;right:0.75em;border:1px solid rgba(0,0,0,0.1);border-radius:3px}
 /*# sourceMappingURL=main.css.map */
